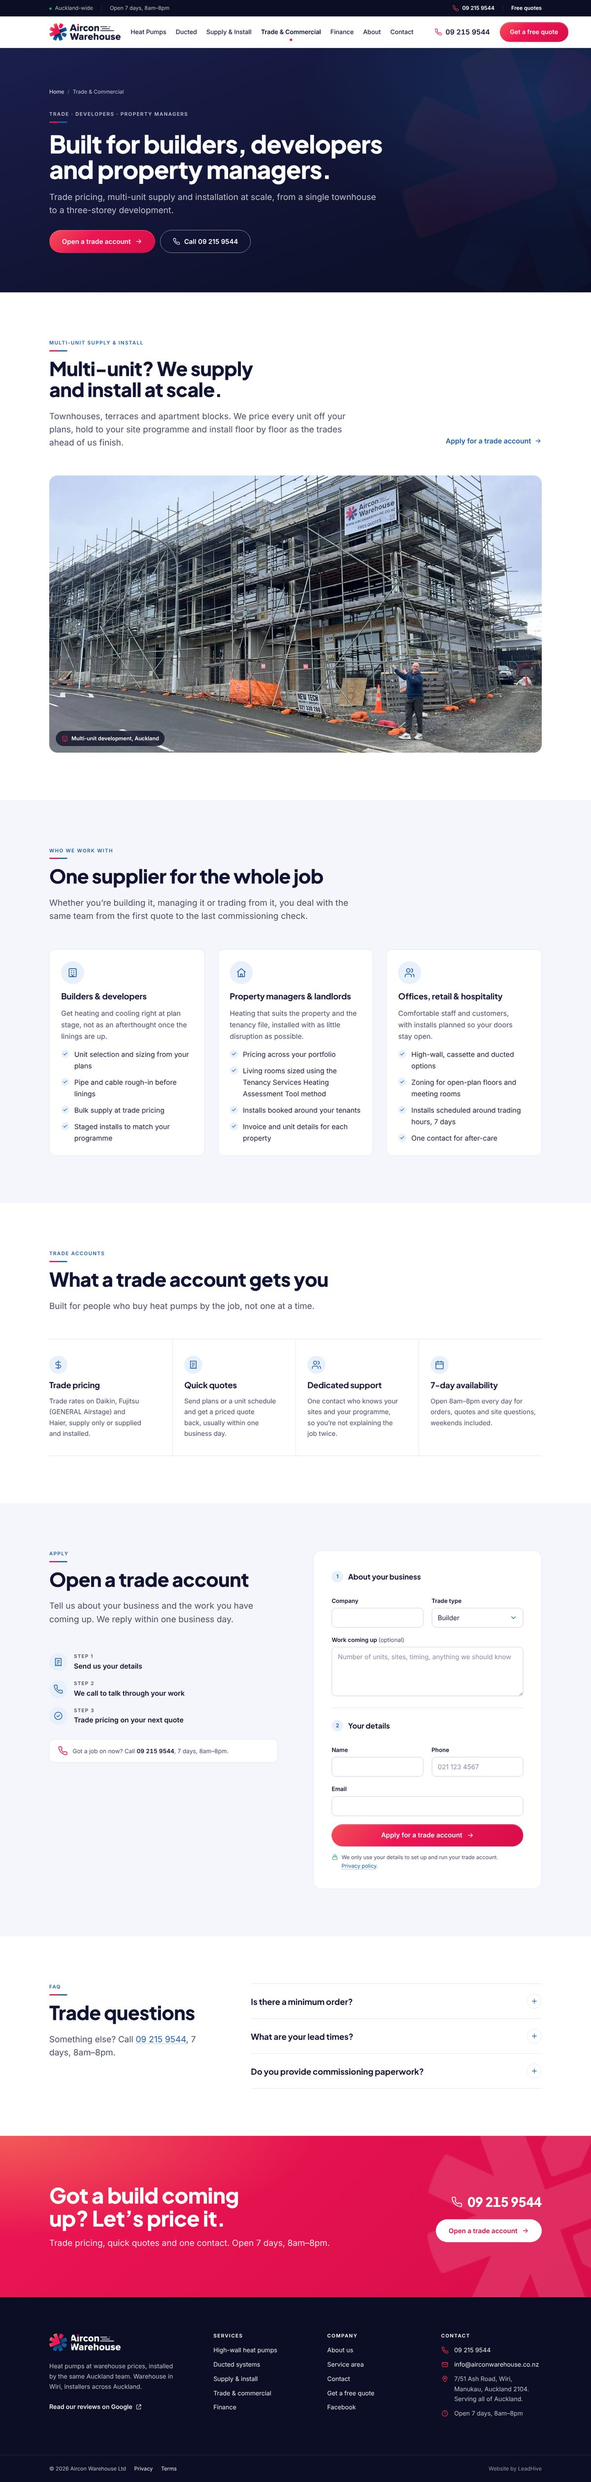
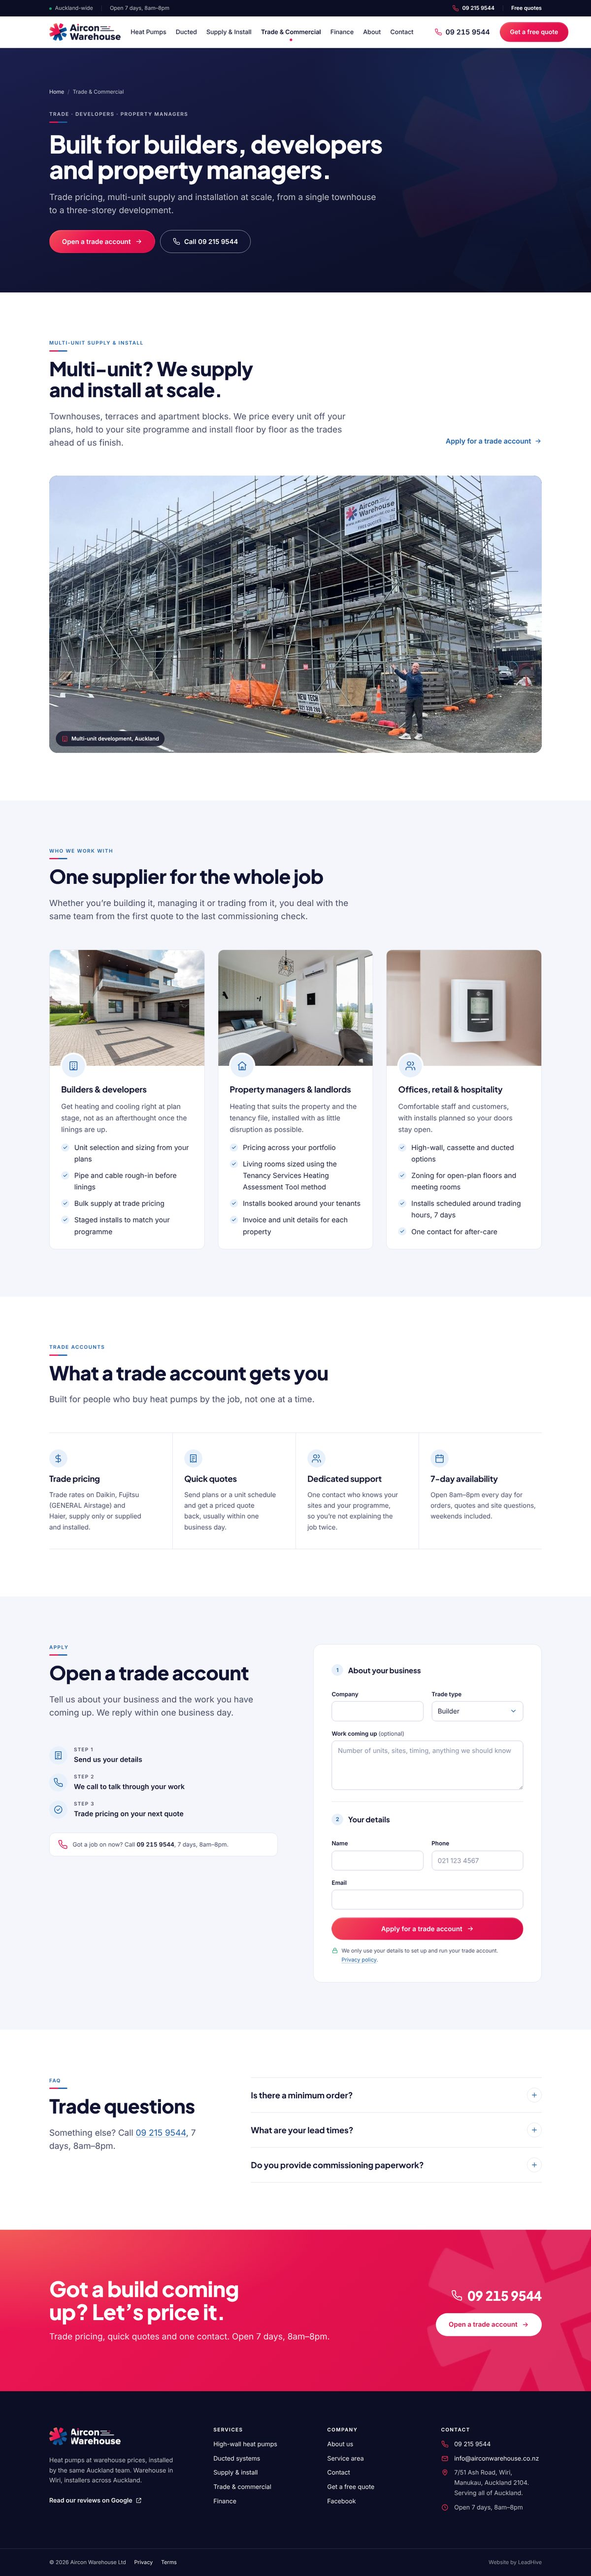
Aircon Warehouse: placeholder photography across the site
Pexels placeholders on the homepage hero and service cards, inner page
heroes, price tiles, audience cards and the about page, with a new
photography section in styles.css. Screens refreshed.

Claude-Session: https://claude.ai/code/session_01FRoATqmjtq9wK4eJnpCEK9

diff --git a/clients/aircon-warehouse/site/about.html b/clients/aircon-warehouse/site/about.html
@@ -379,9 +379,11 @@
             <a class="btn btn-ghost" href="https://www.google.com/maps/search/?api=1&amp;query=7%2F51+Ash+Road+Wiri+Auckland" target="_blank" rel="noopener">Open in Google Maps <svg class="icon" aria-hidden="true"><use href="#i-external"/></svg><span class="visually-hidden"> (opens in a new tab)</span></a>
           </div>
         </div>
-        <figure class="media media--wide" data-reveal>
-          <img src="../assets/stock/technician-inspecting-outdoor-unit-1600.jpg" srcset="../assets/stock/technician-inspecting-outdoor-unit-800.jpg 800w, ../assets/stock/technician-inspecting-outdoor-unit-1600.jpg 1600w" sizes="(min-width: 1024px) 580px, 100vw" alt="Technician inspecting an outdoor heat pump unit with a torch beside a weatherboard house" width="1600" height="1067" loading="lazy" style="--focus: 50% 0%">
-          <figcaption>Placeholder image until team photos are supplied</figcaption>
+        <figure data-reveal>
+          <div class="media media--wide">
+            <img src="../assets/stock/technician-inspecting-outdoor-unit-1600.jpg" srcset="../assets/stock/technician-inspecting-outdoor-unit-800.jpg 800w, ../assets/stock/technician-inspecting-outdoor-unit-1600.jpg 1600w" sizes="(min-width: 1024px) 580px, 100vw" alt="Technician inspecting an outdoor heat pump unit with a torch beside a weatherboard house" width="1600" height="1067" loading="lazy" style="--focus: 50% 0%">
+          </div>
+          <figcaption class="media-caption">Placeholder image until team photos are supplied</figcaption>
         </figure>
       </div>
     </div>

diff --git a/clients/aircon-warehouse/site/_partials.md b/clients/aircon-warehouse/site/_partials.md
@@ -90,7 +90,7 @@ In the aside the compact form's 2-up name/phone row stays 2-up at ≥720px; that
 - Layout: `.container` `.container-narrow` `.band` `.band-tight` `.band-flush-top` `.band-cloud` `.band-navy` `.band-coral` `.grid-2/3/4` `.split` (+`-even` `-reverse` `-top`) `.stack` `.layout-aside`
 - Heads: `.section-head` (+`--center` `--split` with `.section-head__action`) `.eyebrow` `.rule` `.lead` `.muted` `.small` `.note`
 - Buttons: `.btn` + `.btn-primary` `.btn-ghost` `.btn-navy` `.btn-white` `.btn-link` · `.btn-lg` `.btn-block` · `.btn-row` (`--stack` = full width < 480px) · `.on-dark` for ghost/link on navy outside a band
-- Components: `.card` `.card-dark` `.service-card` `.icon-chip` (`--warm` `--dark` `--lg`) `.feature-list/.feature` `.checklist` `.badge` (`--warm` `--on-dark`) `.trust-strip` `.stat-panel` `.price-grid/.price-tile` (`--feature`) `.price-note` `.steps/.step` `.brand-row` `.promise-grid/.promise` `.faq` `.suburb-grid` `.address-line` `.cta-band` `.media` (`--16x9`) `.photo-slot` (`--wide`) `.info-list` `.table-wrap/.table` `.prose`
+- Components: `.card` `.card-dark` `.service-card` `.icon-chip` (`--warm` `--dark` `--lg`) `.feature-list/.feature` `.checklist` `.badge` (`--warm` `--on-dark`) `.trust-strip` `.stat-panel` `.price-grid/.price-tile` (`--feature`) `.price-note` `.steps/.step` `.brand-row` `.promise-grid/.promise` `.faq` `.suburb-grid` `.address-line` `.cta-band` `.media` (`--16x9` `--wide` `--4x3` `--3x4` `--1x1`) `.media-caption` `.service-card__media` (`--wide`) `.hero--photo/.hero__photo` `.page-hero--photo/.page-hero__photo` `.promise-layout` `.promise-grid--2` `.photo-slot` (`--wide`) `.info-list` `.table-wrap/.table` `.prose`
 - Forms: `.form` (`--compact`) `.form-panel` `.form-grid` `.span-2` `.form-group` `.form-group__title` `.field` `.opt` `.form-privacy`
 - JS hooks: `[data-reveal]` (fade-up once), `[data-reveal-stagger]` (on parent), `[data-count]` with an inner `.count`, `[data-year]`, `form[data-quote-form]`, `[data-menu-toggle]`
 
@@ -100,10 +100,20 @@ Sprite lives in the header partial: `<svg class="icon" aria-hidden="true"><use h
 ## Rules
 - Colour: tokens in `:root` only. Coral is the one accent (CTAs, key prices). Sunset never flat. No dark mode. No `!important`.
 - Shadows only on the scrolled header and quote cards. Cards are flat with a hairline border.
-- Photos: real banner only on commercial (`.media`). Otherwise at most one `.photo-slot` per page, never in a hero: `<figure class="photo-slot"><figcaption>Photo: Daikin high wall, living room</figcaption></figure>`.
+- Photos: the real banner (`../assets/site-banner-*.jpg`) is on index + commercial. Everything else is a Pexels stock placeholder from `../assets/stock/` (see section 7). Never present a stock person as the team or a stock job as our work. `.photo-slot` is still available for a marked gap: `<figure class="photo-slot"><figcaption>Photo: Daikin high wall, living room</figcaption></figure>`.
 - Facts: one phone (09 215 9544 / `tel:+6492159544`), one email (info@airconwarehouse.co.nz), hours "Open 7 days, 8am–8pm". Brands: Daikin, Fujitsu, Haier only. In brand rows write the Fujitsu sub-label "Now GENERAL Airstage"; in prose "Fujitsu (GENERAL Airstage)".
 - Any page showing a "from $" price carries once: "Prices incl. GST. Installed prices assume a standard back-to-back installation with up to 3 m of pipe, single storey. Your free quote confirms a fixed price." (use `.price-note`).
 - Never: star ratings, review counts, "#1", "licensed", "accredited", warranty years, "Healthy Homes compliant", finance provider names or month counts. Finance wording: "Finance available, including interest-free options. Terms, fees and lending criteria apply; we’ll walk you through them on your quote."
 - Images: width/height attributes, `loading="lazy"` below the fold, real alt text. Decorative logo marks get `alt="" aria-hidden="true"`.
 - Grids collapse to one column below 720px; any new flex/grid child holding text gets `min-width: 0`.
 - Breakpoints: 720 / 1024. Header only: desktop nav from 1180, header phone from 1320. Bottom bar below 768.
+
+## 7. Photography (styles.css section 23)
+Every `<img>`: `src` = the -1600 file, `srcset="…-800.jpg 800w, …-1600.jpg 1600w"`, a `sizes`, `width`/`height` of the 1600 file, alt text describing the picture (never "our install"), `loading="lazy"` unless it is a hero. Focal point per image with `style="--focus: 60% 30%"` (object-position x y).
+- **Media block:** `<figure class="media media--4x3"><img …></figure>`. `--16x9` is 4:3 below 1024px then 16:9; `--wide` is 16:9 at every width. Caption on the photo: `<figcaption>` (dark pill). Caption under it: wrap the `.media` in a plain `<figure>` and use `<figcaption class="media-caption">`.
+- **Card image header:** first child of `.service-card`, `.card` or `.price-tile`: `<div class="service-card__media"><img …></div>` (4:3, `--wide` = 16:9). Bleeds to the card edges, zooms slightly on hover; a following `.icon-chip--lg` overlaps its bottom edge.
+- **Home hero:** `.hero.hero--photo`, with `<figure class="hero__photo"><img … fetchpriority="high"></figure>` between `.hero__copy` and the quote card. Desktop: layer under a ~90% navy gradient. Below 1024px: full-bleed band above the quote card.
+- **Inner hero:** `.page-hero.page-hero--photo`, drop the `.page-hero__mark`, add `<figure class="page-hero__photo"><img …></figure>` after the `.container`. Desktop: photo fills the right and fades into the navy under the copy (copy max 700px). Below 1024px: band flush with the hero's bottom edge.
+- **Heading + photo beside a promise list:** `<div class="promise-layout"><div><div class="section-head">…</div><figure class="media …">…</figure></div><ul class="promise-grid promise-grid--2">…</ul></div>`.
+- Check hero text contrast after any photo or overlay change (white and the coral accent must stay ≥ 4.5:1 / 3:1 for large text).
+- `technician-inspecting-outdoor-unit` shows a third-party brand on the unit: always use it at 16:9 (`--wide`) with `--focus: 50% 0%` so the logo is cropped out.

diff --git a/clients/aircon-warehouse/README.md b/clients/aircon-warehouse/README.md
@@ -33,6 +33,7 @@ from its Share menu); it is the same files with `../assets/` rewritten to `asset
   add a page. A few pages carry a small page-local `<style>` block marked "candidate for styles.css".
 - Forms: any `form[data-quote-form]` is validated by `main.js` and swaps to a success panel. There is no
   endpoint yet.
+- Stock placeholder photos (Pexels) are in `assets/stock/` with `assets/stock/CREDITS.md`. They are placeholders only and must be swapped for the client's own job and team photos before launch.
 - No third-party embeds (no map iframe) so the preview works inside the artifact sandbox; the address links
   out to Google Maps instead.
 - Fujitsu is written "Fujitsu (GENERAL Airstage)" because Fujitsu General NZ renamed to GENERAL in January 2026.
